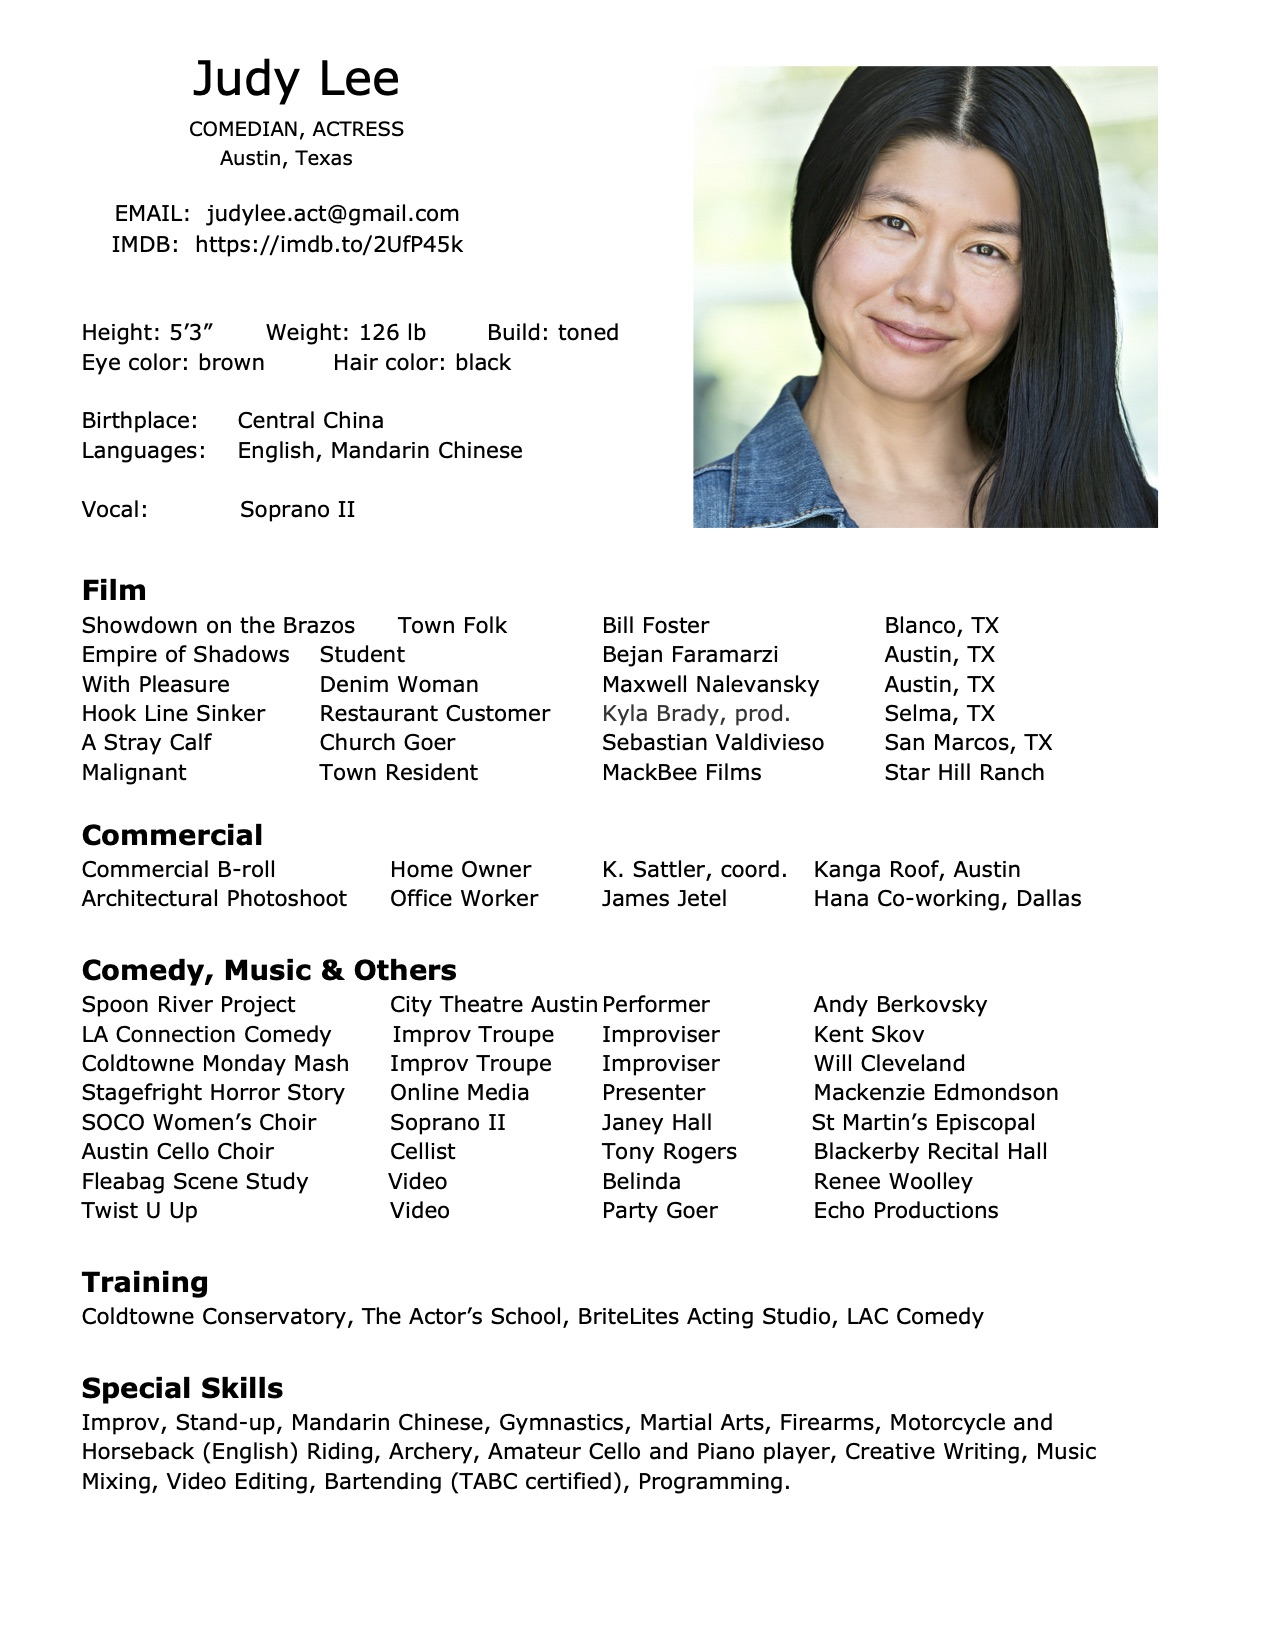
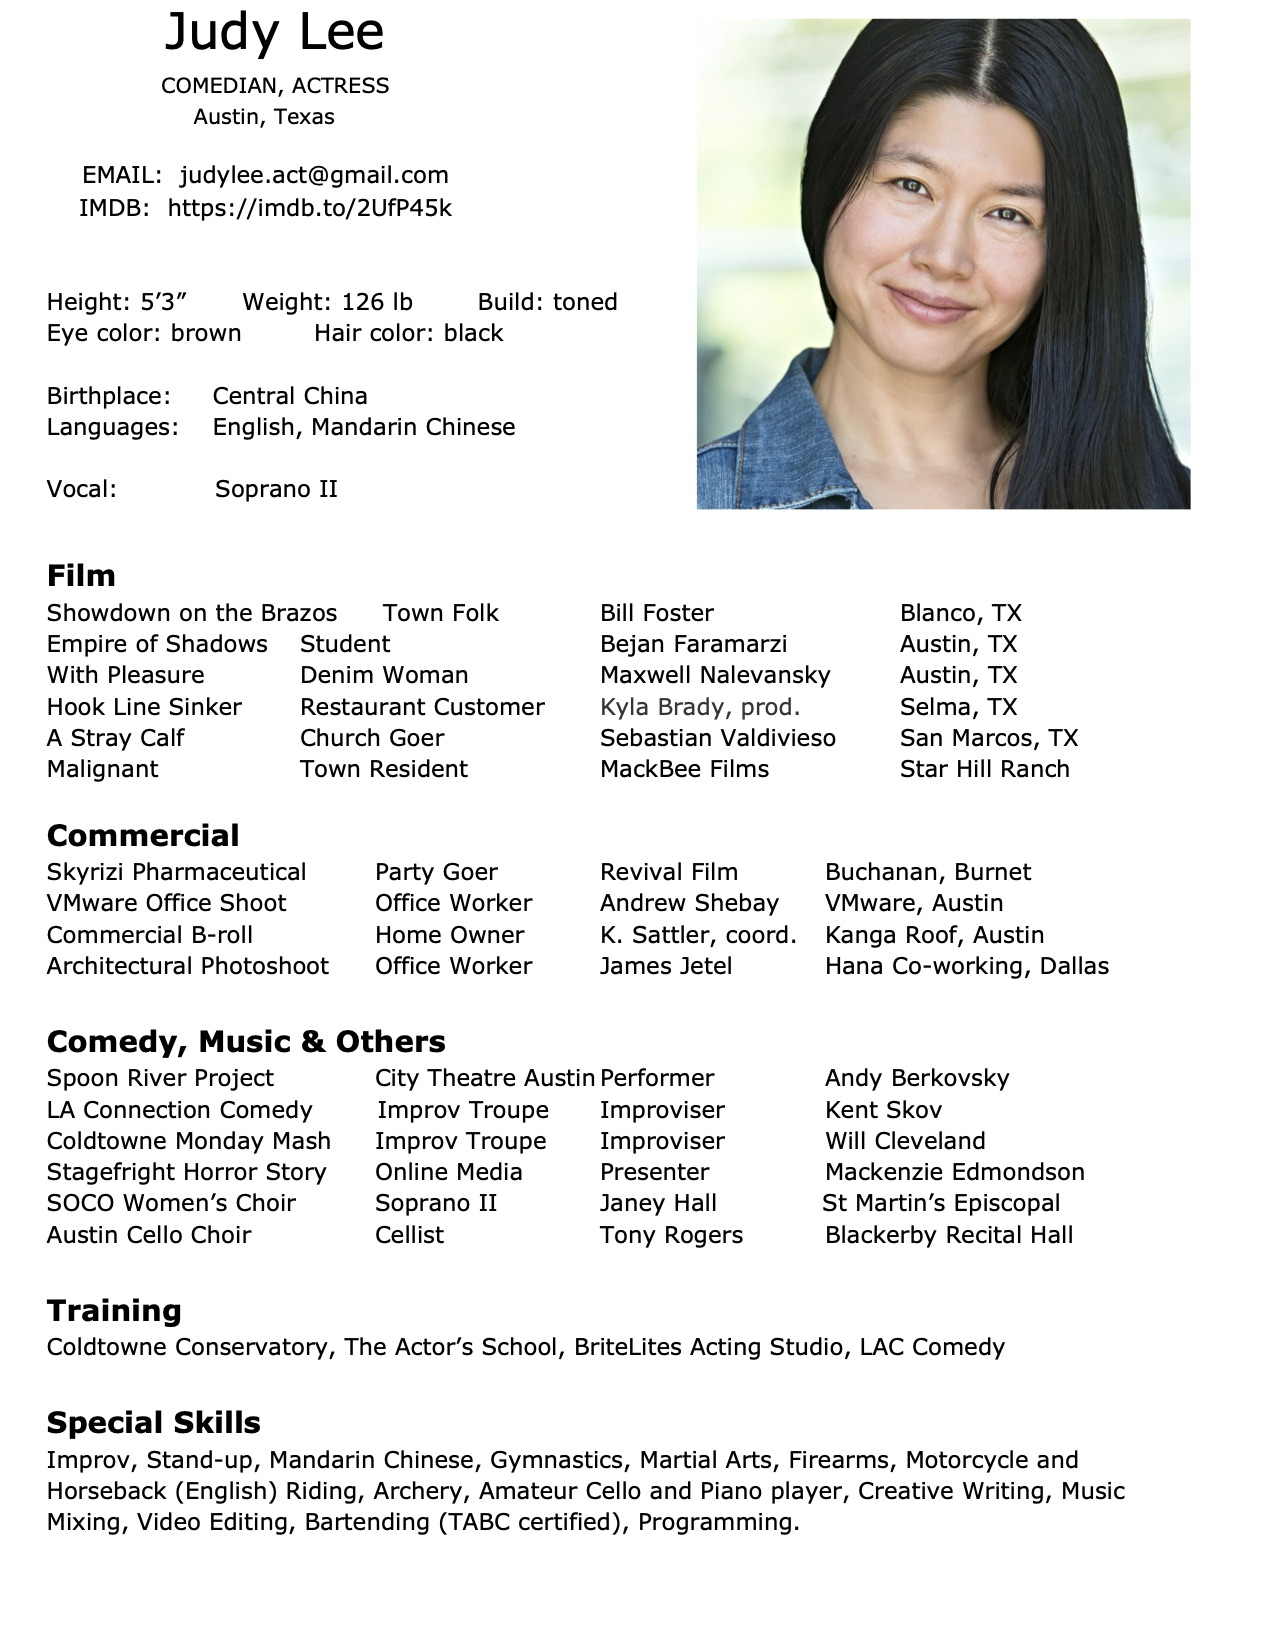
Update resume.

diff --git a/hamburger_button.js b/hamburger_button.js
@@ -16,7 +16,7 @@ class App extends React.Component {
     console.log(val);
     
     if (val.localeCompare('Resume') == 0) {
-      window.location.href="https://drive.google.com/file/d/1CTsBeG9nvsM7IsZPJhkrAu4W9Op6h9rl/view?usp=sharing";
+      window.location.href="https://drive.google.com/file/d/102wn9mrfCxkwkqcrRyZSy2EA5hGl7HgD/view?usp=sharing";
     } else if (val.localeCompare('Voice Over') == 0) {
       window.location.href="https://www.backstage.com/u/judy-lee/media/audio/";
     } else if (val.localeCompare('Writing') == 0) {

diff --git a/index.html b/index.html
@@ -64,7 +64,7 @@
   <div id="container">
     <div class="overlay">
       <a href="https://www.facebook.com/JudyLeeActress">Facebook</a>
-      <a href="https://drive.google.com/open?id=1MjOXEGm9WCUwUOGuOhQKkaaBFVQTtHJR">Resume</a>
+      <a href="https://drive.google.com/file/d/102wn9mrfCxkwkqcrRyZSy2EA5hGl7HgD">Resume</a>
     </div>
     <script src="/example.min.js"></script>
   </div>
